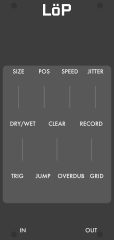
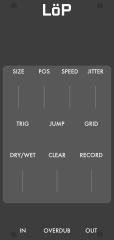
Löp: sync VCV/MetaModule positions for Overdub relocate

diff --git a/src/loooop/Lop.cpp b/src/loooop/Lop.cpp
@@ -179,16 +179,16 @@ struct LopWidget : ModuleWidget {
         addInput(createInputCentered<PJ301MPort>(mm2px(Vec(23.61, 58.0)), module, Lop::POSITION_CV_INPUT));
         addInput(createInputCentered<PJ301MPort>(mm2px(Vec(37.35, 58.0)), module, Lop::SPEED_CV_INPUT));
         addInput(createInputCentered<PJ301MPort>(mm2px(Vec(51.09, 58.0)), module, Lop::JITTER_CV_INPUT));
-        addParam(createParamCentered<RoundBlackKnob>(mm2px(Vec(12.16, 74.05)), module, Lop::DRYWET_PARAM));
-        addParam(createParamCentered<VCVButton>(mm2px(Vec(30.48, 74.05)), module, Lop::CLEAR_PARAM));
-        addParam(createLightParamCentered<VCVLightButton<MediumSimpleLight<RedLight>>>(mm2px(Vec(48.8, 74.05)), module, Lop::RECORD_PARAM, Lop::RECORD_LIGHT));
-        addInput(createInputCentered<PJ301MPort>(mm2px(Vec(12.16, 86.0)), module, Lop::DRYWET_CV_INPUT));
-        addInput(createInputCentered<PJ301MPort>(mm2px(Vec(30.48, 86.0)), module, Lop::CLEAR_TRIG_INPUT));
-        addInput(createInputCentered<PJ301MPort>(mm2px(Vec(48.8, 86.0)), module, Lop::RECORD_TRIG_INPUT));
-        addInput(createInputCentered<PJ301MPort>(mm2px(Vec(9.252, 102.15)), module, Lop::TRIG_INPUT));
-        addInput(createInputCentered<PJ301MPort>(mm2px(Vec(22.992, 102.15)), module, Lop::JUMP_INPUT));
-        addParam(createLightParamCentered<OverdubButton>(mm2px(Vec(37.968, 102.15)), module, Lop::OVERDUB_PARAM, Lop::OVERDUB_R_LIGHT));
-        addParam(createParamCentered<RoundSmallBlackSnapKnob>(mm2px(Vec(51.708, 102.15)), module, Lop::GRID_PARAM));
+        addParam(createParamCentered<RoundBlackKnob>(mm2px(Vec(12.16, 90.85)), module, Lop::DRYWET_PARAM));
+        addParam(createParamCentered<VCVButton>(mm2px(Vec(30.48, 90.85)), module, Lop::CLEAR_PARAM));
+        addParam(createLightParamCentered<VCVLightButton<MediumSimpleLight<RedLight>>>(mm2px(Vec(48.8, 90.85)), module, Lop::RECORD_PARAM, Lop::RECORD_LIGHT));
+        addInput(createInputCentered<PJ301MPort>(mm2px(Vec(12.16, 102.8)), module, Lop::DRYWET_CV_INPUT));
+        addInput(createInputCentered<PJ301MPort>(mm2px(Vec(30.48, 102.8)), module, Lop::CLEAR_TRIG_INPUT));
+        addInput(createInputCentered<PJ301MPort>(mm2px(Vec(48.8, 102.8)), module, Lop::RECORD_TRIG_INPUT));
+        addInput(createInputCentered<PJ301MPort>(mm2px(Vec(12.16, 74.15)), module, Lop::TRIG_INPUT));
+        addInput(createInputCentered<PJ301MPort>(mm2px(Vec(30.48, 74.15)), module, Lop::JUMP_INPUT));
+        addParam(createLightParamCentered<OverdubButton>(mm2px(Vec(30.48, 116.05)), module, Lop::OVERDUB_PARAM, Lop::OVERDUB_R_LIGHT));
+        addParam(createParamCentered<RoundSmallBlackSnapKnob>(mm2px(Vec(48.8, 74.15)), module, Lop::GRID_PARAM));
         addInput(createInputCentered<PJ301MPort>(mm2px(Vec(7.35, 116.05)), module, Lop::AUDIO_L_INPUT));
         addInput(createInputCentered<PJ301MPort>(mm2px(Vec(17.05, 116.05)), module, Lop::AUDIO_R_INPUT));
         addOutput(createOutputCentered<PJ301MPort>(mm2px(Vec(43.91, 116.05)), module, Lop::OUT_L_OUTPUT));
